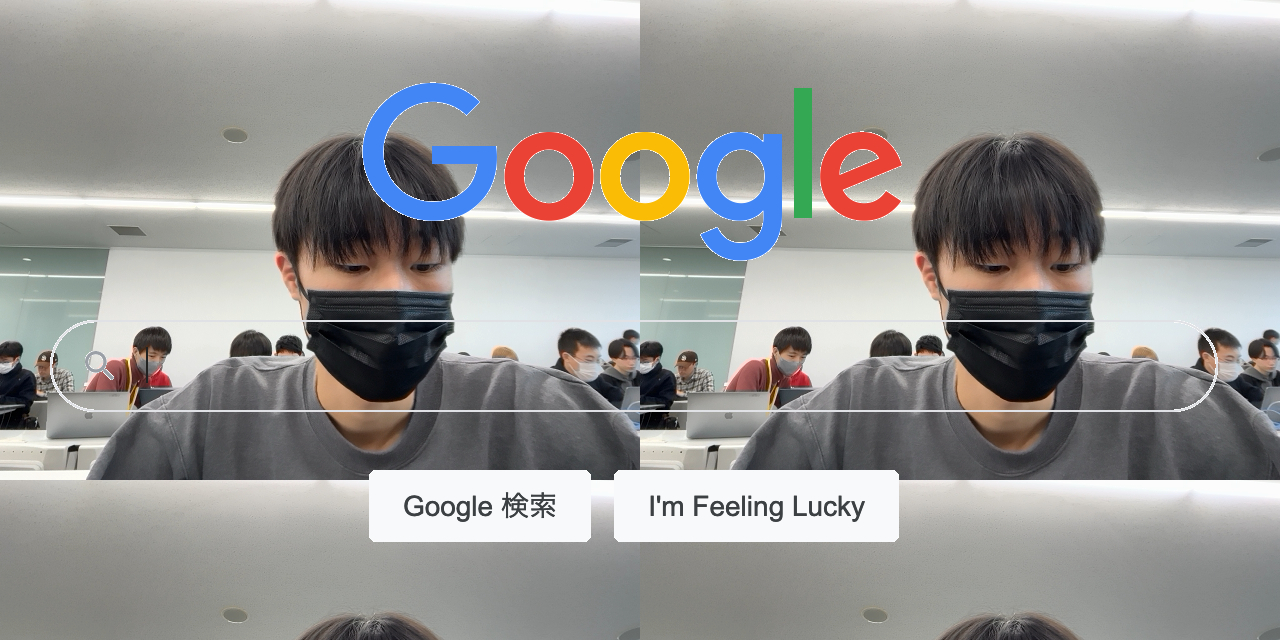
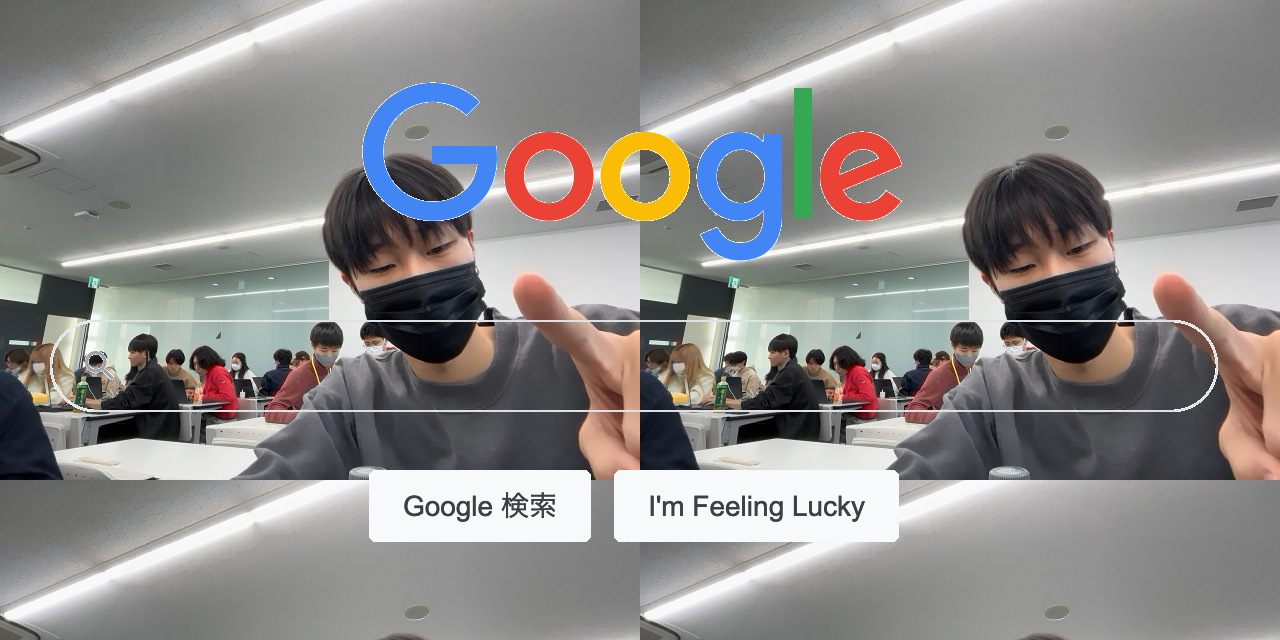
機能の統合

diff --git a/main.py b/main.py
@@ -2,8 +2,10 @@ import sys
 import cv2
 import numpy as np
 from PySide6.QtWidgets import QApplication, QWidget, QPushButton, QHBoxLayout, QVBoxLayout, QLabel
+from PySide6.QtGui import QImage, QPixmap
 from PySide6.QtCore import Qt
 from src.k24138 import lecture05_01
+from src.combine_image import combine_images
 
 
 class MainWidget(QWidget):
@@ -20,11 +22,17 @@ class MainWidget(QWidget):
 
         # 3つのボタンを作成して横に並べる
         self.left_button = QPushButton("撮影")
-        self.mid_button = QPushButton("画像合成")
+        self.mid_button = QPushButton("合成！！！！")
         self.right_button = QPushButton("保存")
+
+        # ボタンが押されたときの処理
+        self.left_button.clicked.connect(self.on_left_click)
+        self.mid_button.clicked.connect(self.on_mid_click)
+        self.right_button.clicked.connect(self.on_right_click)
 
         # 保存ボタンは最初は非表示
         self.right_button.setVisible(False)
+        self.mid_button.setVisible(False)
 
         # ボタンのレイアウト
         button_layout = QHBoxLayout()
@@ -38,6 +46,53 @@ class MainWidget(QWidget):
         main_layout.addLayout(button_layout)
         self.setLayout(main_layout)
 
+    def display_image(self, image_array):
+        """OpenCVの画像(numpy配列)をQtのウィジェットに表示する"""
+        # BGRからRGBに変換
+        rgb_image = cv2.cvtColor(image_array, cv2.COLOR_BGR2RGB)
+        h, w, ch = rgb_image.shape
+        bytes_per_line = ch * w
+
+        # QImageに変換
+        qt_image = QImage(rgb_image.data, w, h, bytes_per_line, QImage.Format_RGB888)
+
+        # QPixmapに変換してラベルに表示
+        pixmap = QPixmap.fromImage(qt_image)
+        # ラベルのサイズに合わせてスケーリング
+        scaled_pixmap = pixmap.scaled(self.image_label.size(), Qt.KeepAspectRatio, Qt.SmoothTransformation)
+        self.image_label.setPixmap(scaled_pixmap)
+
+    def on_left_click(self):
+        """撮影ボタンがクリックされたときの処理"""
+        # カメラで画像を撮影
+        self.result_image = lecture05_01()
+        # 撮影が完了したら画像を表示して撮影ボタンを非表示
+        if self.result_image is not None:
+            self.display_image(self.result_image)
+            self.left_button.setVisible(False)  # 撮影ボタンを非表示
+            self.mid_button.setVisible(True)  # 合成ボタンを表示
+            print("画像を撮影しました。合成ボタンを押してください。")
+
+    def on_mid_click(self):
+        """midボタンがクリックされたときの処理（合成）"""
+        if self.result_image is not None:
+            # 撮影した画像とgoogle.pngを合成
+            self.result_image = combine_images(self.result_image)
+            if self.result_image is not None:
+                self.display_image(self.result_image)
+                self.right_button.setVisible(True)  # 合成完了後に保存ボタンを表示
+                self.mid_button.setVisible(False)  # 合成ボタンを非表示
+                print("合成した画像を表示しました。保存ボタンを押して保存できます。")
+        else:
+            print("合成する画像がありません。先に撮影ボタンを押してください。")
+
+    def on_right_click(self):
+        """Rightボタンがクリックされたときの処理（保存）"""
+        if self.result_image is not None:
+            out_filename = 'output_images/lecture05_01_k24138.png'
+            cv2.imwrite(out_filename, self.result_image)
+        else:
+            print("保存する画像がありません。先にLeftボタンを押してください。")
 
 if __name__ == "__main__":
     app = QApplication(sys.argv)

diff --git a/src/k24138.py b/src/k24138.py
@@ -6,7 +6,7 @@ def lecture05_01():
 
     - カメラを起動してキャプチャ画像を取得する（MyVideoCapture.get_img を使用）
     - 取得したキャプチャ画像を戻り値として返す。
-    
+
     Returns:
         numpy.ndarray: キャプチャされた画像データ
     """
@@ -17,14 +17,10 @@ def lecture05_01():
 
     # カメラで取得した画像を取得
     capture_img = app.get_img()
-    
+
     # 画像が取得できなかった場合のエラー処理
     if capture_img is None:
         raise RuntimeError("カメラから画像を取得できませんでした。run() を実行して 'q' キーでキャプチャしてください。")
 
     # ここで画像を返して終了
     return capture_img
-
-
-if __name__ == '__main__':
-        lecture05_01()
